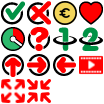
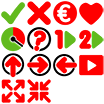
- Cambiados los iconos y colores del juego - Traducidos varios frases pendientes

diff --git a/exe/jsui/scripts/i18n/es.js b/exe/jsui/scripts/i18n/es.js
@@ -3125,17 +3125,17 @@ translations = {
  "Word\/Phrase": "Palabra\/Frase",
  "Words\/Phrases": "Palabras\/Frases",
  "Write the correct word and click on reply. If you hesitate, click on move on": "Escribe la palabra correcta y pulsa sobre Responder. Si tienes dudas, haz clic en Pasar",
- "You can do this activity as many times as you wan": "Puedes realizar esta actividad las veces que desees",
+ "You can do this activity as many times as you want": "Puedes realizar esta actividad las veces que desees",
  "You can export this game so you can later use it in another iDevice of the same type. You can also use it in %s and you can import games from %s and use them here." : "Puedes exportar este juego para usarlo posteriormente en otro iDevice del mismo tipo. Tambi\u00e9n puedes usarlo en %s y puedes importar juegos desde %s y usarlos aqu\u00ed.",
- "You can only play this game with internet connection. Check out your connection": "Solo puedes jugar a este juego con conexi\u00f3n a internet. Revisa su conexi\u00f3n",
+ "You can only play this game with internet connection. Check out your conecctivity": "Solo puedes jugar a este juego con conexi\u00f3n a internet. Revisa su conexi\u00f3n",
  "You can only save once": "Solo puedes guardar una vez",
  "You can only save the score once!": "Solo puedes guardar tu calificaci\u00f3n  una vez",
  "You can save the score as many times as you want": "Puedes guardar la calificación todas las veces que desees",
  "Move on to the next word": "Pasas a la palabra siguiente",
- "You have already done this activity.": "Ya has realizado esta actividad.",
+ "You have already done this activity.": "Ya has realizado esta actividad",
  "You have got %1 hits and %2 misses":"Has tenido %1 aciertos y %2 errores",
  "You must upload or indicate the valid URL of an image": "Debes cargar una imagen o indicar la URL v\u00e1lida de una",
- "You must provide at least one question": "Debes escribir al menos una pregunta.",
+ "You must provide at least one question": "Debes escribir al menos una pregunta",
  "You must provide at least one word": "Debes escribir al menos una palabra",
  "You must provide how to obtain the code to play this game":"Debes proporcionar c\u00f3mo obtener el c\u00f3digo para jugar a este juego.",
  "You must provide one word or phrase": "Indica una palabra o frase",
@@ -3144,7 +3144,9 @@ translations = {
  "You must provide the time to view the solution": "Debes indicar el tiempo que se mostrar\u00e1 la soluci\u00f3n",
  "You must write a clue":"Debes escribir una pista",
  "Your score": "Tu calificaci\u00f3n ",
- "Your score will be automatically saved after each question.": "La calificaci\u00f3n se guardar\u00e1 despu\u00e9s de cada pregunta.",
- "Your score will be saved after each question. You can only play once!": "La calificaci\u00f3n se guardar\u00e1 despu\u00e9s de cada pregunta. \u00a1Solo puedes realizarla una vez!"
+ "Your score will be automatically saved after each question.": "La calificaci\u00f3n se guardar\u00e1 despu\u00e9s de cada pregunta",
+ "Your score will be saved after each question. You can only play once!": "La calificaci\u00f3n se guardar\u00e1 despu\u00e9s de cada pregunta. \u00a1Solo puedes realizarla una vez!",
+ "Access code required":"C\u00f3digo de acceso requerido",
+ "No image":"Sin imagen"
 };
 

diff --git a/exe/webui/scripts/idevices/rosco-activity/export/rosco-activity.css b/exe/webui/scripts/idevices/rosco-activity/export/rosco-activity.css
@@ -20,7 +20,7 @@
   }
 
 .rosco-GameMinimize a:link, .rosco-GameMinimize a:link, .rosco-GameMinimize a:visited, .rosco-GameMinimize a:focus {
-    color: #f05565;
+    color: #b3092f;
     text-decoration: none;
     outline: 0;
     border: none;
@@ -33,7 +33,7 @@
 }
 .rosco-ShowClue p{
     font-size:12px;
-    color:#009245;
+    color:#00a300;
     font-weight: bold;
     margin: 5px auto;
     text-align: center;
@@ -48,7 +48,7 @@
     align-items: center;
 }
 .rosco-RepeatActivity{
-    color: #ff0000;
+    color: #b3092f;
     font-size:12px;
     font-weight: bold;
     text-align: center;
@@ -121,7 +121,7 @@
 .rosco-MessageMaximize {
     width: 100%;
     text-align: left;
-    color: #f05565;
+    color: #b3092f;
     font-weight: bold;
     font-size: 13pt;
     margin: 10px auto;
@@ -135,7 +135,7 @@
 }
 
 .rosco-MessageMaximize:hover {
-    color: #8697cb;
+    color: #5877c6;
 }
 
 .rosco-GameContainer {
@@ -273,7 +273,7 @@
     height: 35px;
     line-height: 35px;
     border: none;
-    background-color: #0099cc;
+    background-color: #5877c6;
     color: white;
     text-align: center;
     text-decoration: none;
@@ -358,7 +358,7 @@
 .rosco-TypeDefinition p a {
     font-weight: bold;
     font-size: 20px;
-    color: #ff0000
+    color: #b3092f
 }
 
 .rosco-Definition {
@@ -391,7 +391,7 @@
     width: 90px;
     height: 30px;
     background: transparent;
-    border: 2px solid #0099cc;
+    border: 2px solid #5877c6;
     border-radius: 6px;
     font-size: 12px;
     color: #1c1b1b;
@@ -409,7 +409,7 @@
  
 }
 .rosco-AnswerButtons input[type=button]:hover, .rosco-CodeAccess input[type=button]:hover, .rosco-GetScore input[type=button]:hover {
-    background-color: #0099cc;
+    background-color: #5877c6;
     color: white;
     border: 1px solid #000;
     font-weight: bold;
@@ -421,17 +421,17 @@
 }
 
 .rosco-LetterBlue {
-    background-color: #0099cc;
+    background-color: #5877c6;
     color: white;
 }
 
 .rosco-LetterRed {
-    background-color: #ff0000;
+    background-color: #b3092f;
     color: white;
 }
 
 .rosco-LetraGreen {
-    background-color: #009245;
+    background-color: #00a300;
     color: white;
 }
 

diff --git a/exe/webui/scripts/idevices/adivina-activity/export/adivina-activity.css b/exe/webui/scripts/idevices/adivina-activity/export/adivina-activity.css
@@ -1,5 +1,5 @@
 .adivina-GameMinimize a:link, .adivina-GameMinimize a:link, .adivina-GameMinimize a:visited, .adivina-GameMinimize a:focus {
-    color: #f05565;
+    color: #ff0000;
 }
 
 .adivina-MainContainer a:link, .adivina-MainContainer a:link, .adivina-MainContainer a:visited, .adivina-MainContainer a:focus {
@@ -30,7 +30,7 @@
 .adivina-MessageMaximize {
     width: 100%;
     text-align: left;
-    color: #f05565;
+    color: #ff0000;
     font-weight: bold;
     font-size: 13pt;
     margin: 10px auto;
@@ -120,15 +120,15 @@
 }
 
 .adivina-Letter.blue {
-    color: #8697cb;
+    color: #5877c6;
 }
 
 .adivina-Letter.green {
-    color: #3abca7;
+    color: #2a9315;
 }
 
 .adivina-Letter.red {
-    color: #f05565;
+    color: #ff0000;
 }
 
 .adivina-MainContainer {
@@ -329,7 +329,7 @@
     margin: 10px auto;
     text-align: center;
     margin-bottom: 10px;
-    color: #f05565;
+    color: #ff0000;
     font-size: 16px;
     font-weight: bold;
 }
@@ -349,7 +349,7 @@
 }
 .adivina-ShowClue p{
     font-size: 14px;
-    color:#8697cb;
+    color:#5877c6;
     font-weight: bold;
     margin: 5px auto;
     text-align: center;
@@ -364,7 +364,7 @@
     height: 30px;
 
     background: white;
-    border: 2px solid #8697cb;
+    border: 2px solid #5877c6;
     border-radius: 6px;
     font-size: 14px;
     -webkit-transition-duration: 0.4s;
@@ -381,7 +381,7 @@
    
 }
 .adivina-GameContainer input[type=button]:hover, .adivina-GetScore input[type=button]:hover {
-    background-color: #8697cb;
+    background-color: #5877c6;
     color: white;
     border: 1px solid #000;
 }
@@ -416,7 +416,7 @@
     font-size: 14px;
     font-weight: bold;
     text-align: center;
-    color: #3abca7;
+    color: #2a9315;
 }
 
 .adivina-HistGGame, .adivina-LostGGame {

diff --git a/exe/webui/scripts/idevices/adivina-activity/edition/adivina-activity.js b/exe/webui/scripts/idevices/adivina-activity/edition/adivina-activity.js
@@ -25,7 +25,7 @@ var $exeDevice = {
         "msgIndicateWord": _("Provide a word or phrase"),
         "msgClue": _("Cool! The clue is:"),
         "msgNewGame": _("Click here for a new game"),
-        "msgYouHas": ("You have got %1 hits and %2 misses"),
+        "msgYouHas": _("You have got %1 hits and %2 misses"),
         "msgCodeAccess": _("Access code"),
         "msgPlayAgain": _("Play Again"),
         "msgRequiredAccessKey": _("Access code required"),
@@ -38,7 +38,7 @@ var $exeDevice = {
         "msgMinimize": _("Minimize"),
         "msgMaximize": _("Maximize"),
         "msgTime": _("Time"),
-        "msgLive": _("Live"),
+        "msgLive": _("Life"),
         "msgFullScreen": _("Full Screen"),
         "msgExitFullScreen": _("Exit Full Screen"),
         "msgNumQuestions": _("Number of questions"),

diff --git a/exe/webui/scripts/idevices/rosco-activity/edition/rosco-activity.js b/exe/webui/scripts/idevices/rosco-activity/edition/rosco-activity.js
@@ -43,7 +43,7 @@ var $exeDevice = {
 		"msgImage": _("Image"),
 		"msgNoImage": _("No image"),
 		"msgWrote": _("Write the correct word and click on reply. If you hesitate, click on move on"),
-		"msgNotNetwork": _("You can only play this game with internet connection. Check out your connection"),
+		"msgNotNetwork": _("You can only play this game with internet connection. Check out your conecctivity"),
 		"msgSuccesses": _("Right! | Excellent! | Great! | Very good! | Perfect!"),
 		"msgFailures": _("It was not that! | Not well! | Not correct! | Sorry! | Error!"),
 		"msgEndGameScore": _("Must start game before saving your score!"),

diff --git a/exe/webui/scripts/idevices/adivina-activity/export/adivina-activity.js b/exe/webui/scripts/idevices/adivina-activity/export/adivina-activity.js
@@ -13,9 +13,9 @@ var $eXeAdivina = {
     idevicePath: "",
     borderColors: {
         black: "#1c1b1b",
-        blue: '#8697cb',
-        green: '#3abca7',
-        red: '#f05565',
+        blue: '#5877c6',
+        green: '#2a9315',
+        red: '#ff0000',
         white: '#ffffff',
         yellow: '#f3d55a'
     },

diff --git a/exe/webui/scripts/idevices/rosco-activity/export/rosco-activity.js b/exe/webui/scripts/idevices/rosco-activity/export/rosco-activity.js
@@ -18,9 +18,9 @@ var $eXeRosco = {
 	},
 	colors: {
 		black: "#1c1b1b",
-		blue: '#0099cc',
-		green: '#009245',
-		red: '#ff0000',
+		blue: '#5877c6',
+		green: '#00a300',
+		red: '#b3092f',
 		white: '#ffffff',
 		yellow: '#f3d55a'
 	},
